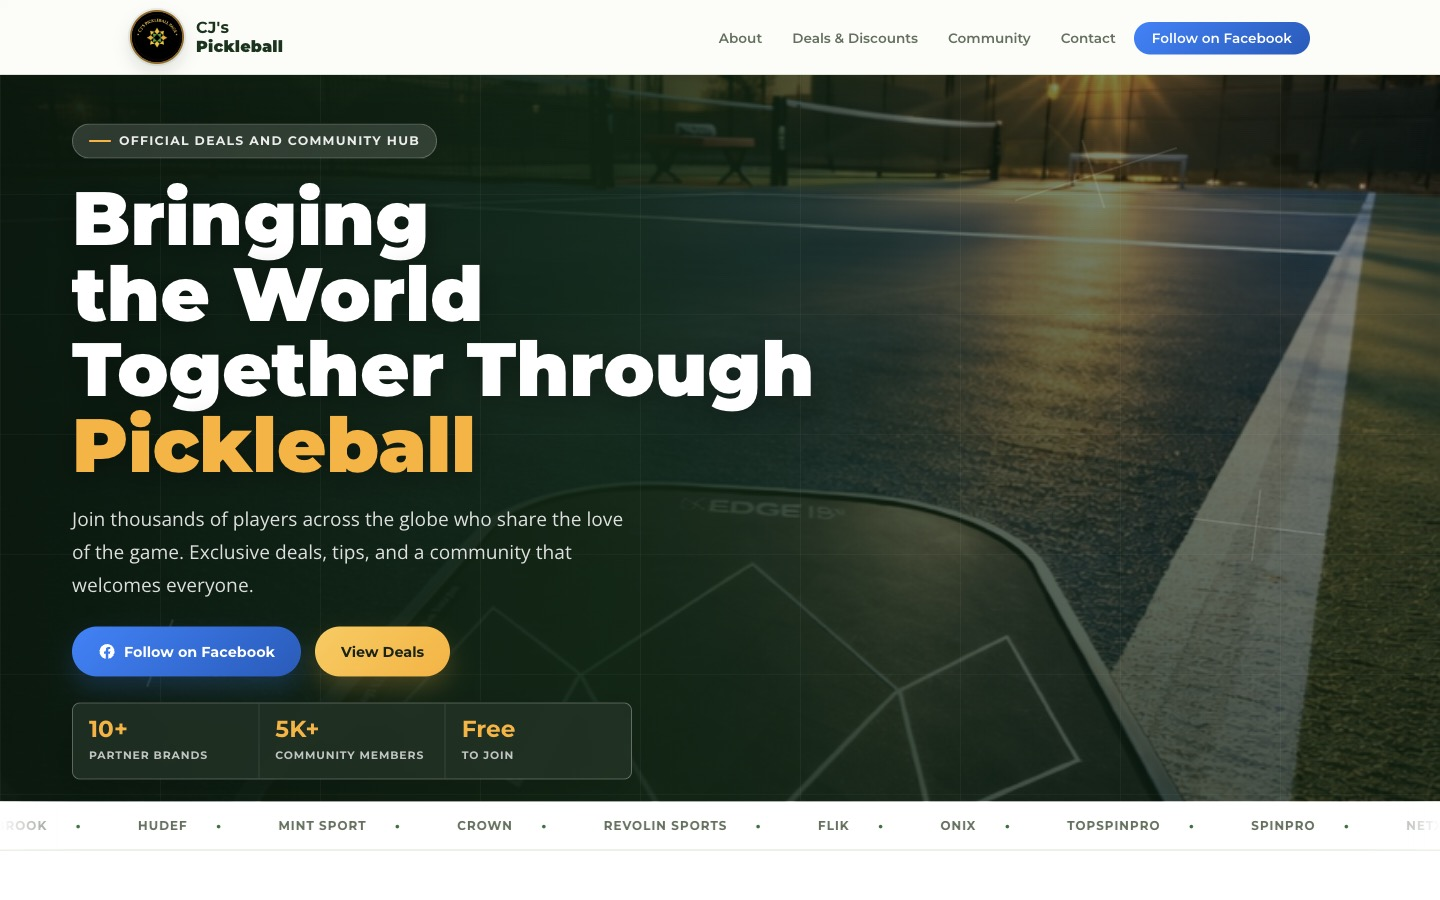
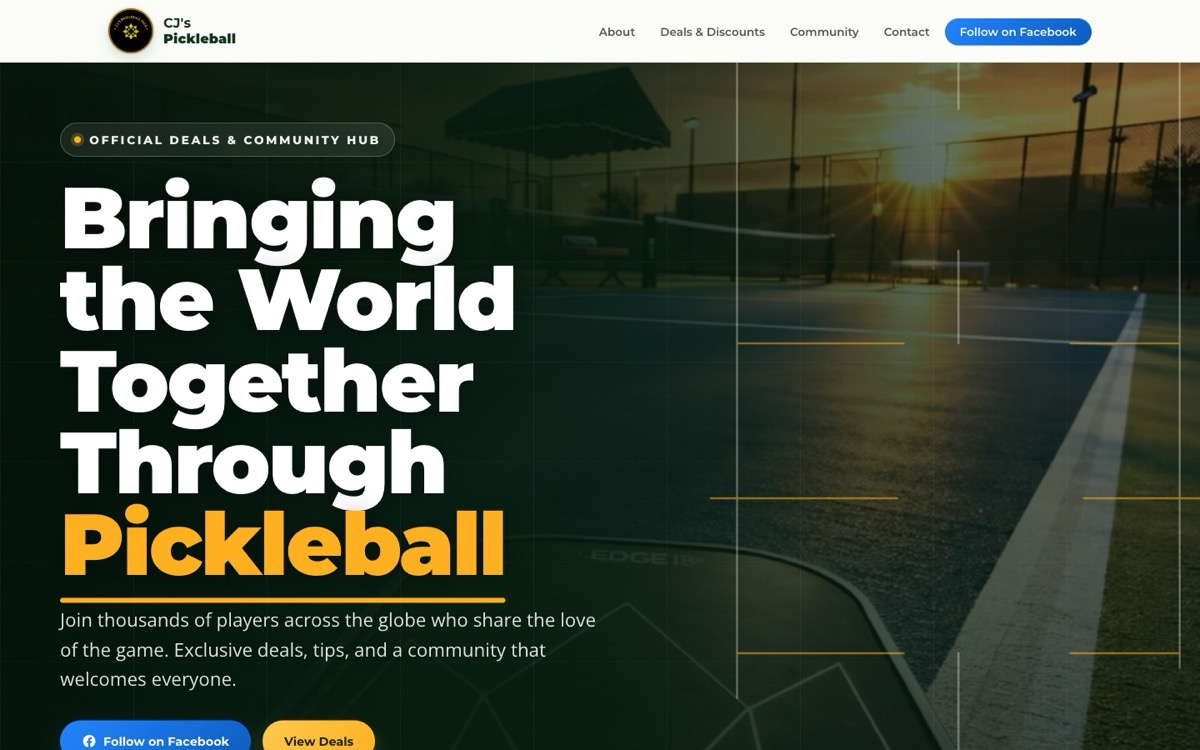
Harden headers, drop dead JS, refresh README screenshot
Security pass (_headers):
- add Strict-Transport-Security (max-age=2y; includeSubDomains)
- add frame-ancestors 'none' to CSP (modern clickjacking control
  alongside the legacy X-Frame-Options: DENY)
- add Cross-Origin-Opener-Policy: same-origin
- add browsing-topics=() to Permissions-Policy (Topics API opt-out;
  mirrored in the index.html meta for parity)

Codebase tightening (js/main.js):
- remove dead .hero-deco WAAPI block — no .hero-deco element or
  --deco-rotate exists in any HTML/CSS, so the querySelectorAll loop
  never ran. Recomputed the main.js SHA-256 in the CSP <meta>, _headers,
  and the SRI integrity attr; bumped the ?v= cache-bust. check-csp-hashes.js green.

Docs:
- README: fix stale "Google Fonts today" claim — fonts are self-hosted
  woff2 since d64e033; refresh docs/screenshot.jpg from the current build
- ROADMAP: move self-host-fonts from Now -> Shipped (honest status)

Gate: node --check, check-csp-hashes.js, required-files + asset-link +
_blank/rel checks all green. UI verified at 1440/768/375 — zero
horizontal overflow; JS executes under the new CSP/SRI.

diff --git a/index.html b/index.html
@@ -3,8 +3,8 @@
 <head>
   <meta charset="UTF-8" />
   <meta name="viewport" content="width=device-width, initial-scale=1.0" />
-  <meta http-equiv="Content-Security-Policy" content="default-src 'self'; script-src 'self' 'sha256-brNz854dkrCE93W/t1+Diy9NpBLhnHGlJvkT4yts3S4=' 'sha256-E6XOAjCILZ/AuLwCE5KbjKMVAke40XN7jnAro+2TRVE='; style-src 'self'; img-src 'self' data:; font-src 'self'; connect-src 'self'; object-src 'none'; frame-src 'none'; base-uri 'self'; form-action 'self'; upgrade-insecure-requests" />
-  <meta http-equiv="Permissions-Policy" content="camera=(), microphone=(), geolocation=(), payment=()" />
+  <meta http-equiv="Content-Security-Policy" content="default-src 'self'; script-src 'self' 'sha256-brNz854dkrCE93W/t1+Diy9NpBLhnHGlJvkT4yts3S4=' 'sha256-njPJ/SnKX1OCoC/kh8zggVNp3XNT7BP7mJzq+lH2kQw='; style-src 'self'; img-src 'self' data:; font-src 'self'; connect-src 'self'; object-src 'none'; frame-src 'none'; base-uri 'self'; form-action 'self'; upgrade-insecure-requests" />
+  <meta http-equiv="Permissions-Policy" content="camera=(), microphone=(), geolocation=(), payment=(), browsing-topics=()" />
   <meta name="referrer" content="no-referrer" />
   <meta name="description" content="CJ's Pickleball – bringing the world together one dink at a time. Find exclusive discount codes, gear picks, and connect with our community." />
   <meta name="keywords" content="pickleball, CJs Pickleball, discount codes, pickleball gear, community" />
@@ -515,6 +515,6 @@
 
   <button class="back-to-top" id="backToTop" aria-label="Back to top">&#8593;</button>
 
-  <script src="js/main.js?v=20260529-shine4" integrity="sha256-E6XOAjCILZ/AuLwCE5KbjKMVAke40XN7jnAro+2TRVE="></script>
+  <script src="js/main.js?v=20260608" integrity="sha256-njPJ/SnKX1OCoC/kh8zggVNp3XNT7BP7mJzq+lH2kQw="></script>
 </body>
 </html>

diff --git a/js/main.js b/js/main.js
@@ -267,20 +267,6 @@
   syncHashSection(true, 'auto');
   onScrollFrame();
 
-  /* ---- Hero Floating Decorations (WAAPI) ---- */
-  if (!reducedMotion) {
-    document.querySelectorAll('.hero-deco').forEach(function (el, i) {
-      var rotate = window.getComputedStyle(el).getPropertyValue('--deco-rotate').trim() || '0deg';
-      el.animate(
-        [
-          { transform: 'translateY(0px) rotate(' + rotate + ')' },
-          { transform: 'translateY(-18px) rotate(' + rotate + ')' }
-        ],
-        { duration: 3200 + i * 400, iterations: Infinity, direction: 'alternate', easing: 'ease-in-out', delay: i * 600 }
-      );
-    });
-  }
-
   /* ---- Stats Counter ----
      Markup ships with the final value so the page is fully usable with
      JS disabled. With JS, we reset to "0<suffix>" and animate up on enter. */

diff --git a/ROADMAP.md b/ROADMAP.md
@@ -13,18 +13,13 @@ framework, zero build step, hardened CSP, shipped by hand on `main` → Netlify.
 ## Now
 *Active work. Pure CSS/HTML/asset changes — highest ROI, lowest risk, no JS-hash churn.*
 
-- **Self-host the fonts.** Bundle Montserrat + Open Sans (both OFL, redistributable) as local `woff2`
-  and drop Google Fonts entirely. Kills the last render-blocking third-party request *and* lets the
-  CSP shed two external origins (`fonts.googleapis.com`, `fonts.gstatic.com`). → `index.html`,
-  `_headers`, new `css/fonts.css` + `fonts/`.
 - **Image hygiene.** `loading="lazy"` + `decoding="async"` on every below-fold image; explicit
   `width`/`height` on all `<img>` to pin CLS to zero. The hero preload stays exactly as-is — it's the
   LCP element, never lazy-loaded.
 - **Finish Lighthouse 100 / WCAG AAA.** Close the last gaps across all four categories; screen-reader
   pass on nav + marquee; re-verify AAA contrast on every band.
 
-**Done when:** Lighthouse 100×4, axe-clean, keyboard-complete, no external font origins in the CSP,
-`check-csp-hashes.js` green.
+**Done when:** Lighthouse 100×4, axe-clean, keyboard-complete, `check-csp-hashes.js` green.
 
 ## Next
 *Queued directly behind Now.*
@@ -77,6 +72,7 @@ framework, zero build step, hardened CSP, shipped by hand on `main` → Netlify.
 | SEO & structured data | robots, sitemap, single `@graph` JSON-LD (Org + WebSite + ItemList of all 10 deals) | `92ed5b8` |
 | Affiliate compliance | Visible FTC disclosure (intro + footer); `rel="sponsored"` on all 10 partner links | `8718010` |
 | CSS split + CSP automation | 6-file CSS architecture; hash-pinned CSP/SRI enforced by `check-csp-hashes.js` | `c6066ed` |
+| Self-hosted fonts | Montserrat + Open Sans subsetted to local `woff2`; Google Fonts dropped; CSP `font-src 'self'` | `d64e033` |
 | CI gate | `node --check`, hash freshness, external-link safety, required-files check | ✅ |
 
 ---

diff --git a/README.md b/README.md
@@ -40,7 +40,7 @@ Deploying is just `git push`: Netlify watches `main` and publishes the static fi
 
 - **HTML5 / CSS3 / vanilla JS** — semantic markup, CSS Grid + custom properties, one dependency-free IIFE. No framework, no bundler.
 - **Animation** — CSS transitions plus the Web Animations API, all gated behind `prefers-reduced-motion`.
-- **Fonts** — Montserrat + Open Sans (Google Fonts today; self-hosting is on the roadmap).
+- **Fonts** — Montserrat + Open Sans, self-hosted as subsetted `woff2` (no Google Fonts request; `font-src 'self'` in the CSP).
 - **Hosting** — Netlify, continuous deploy from `main`.
 - **Security** — hash-pinned CSP + SRI and locked-down response headers, enforced in CI.
 
